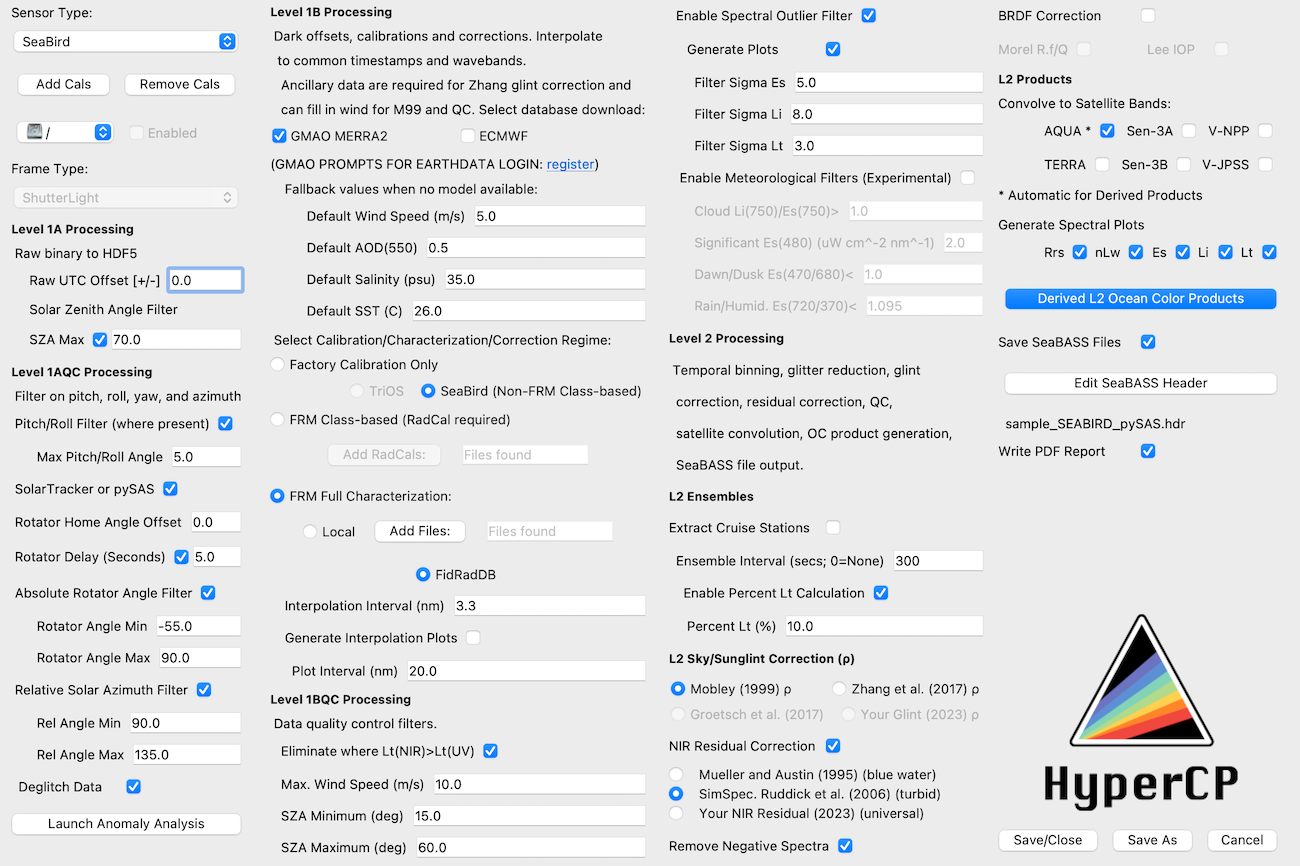
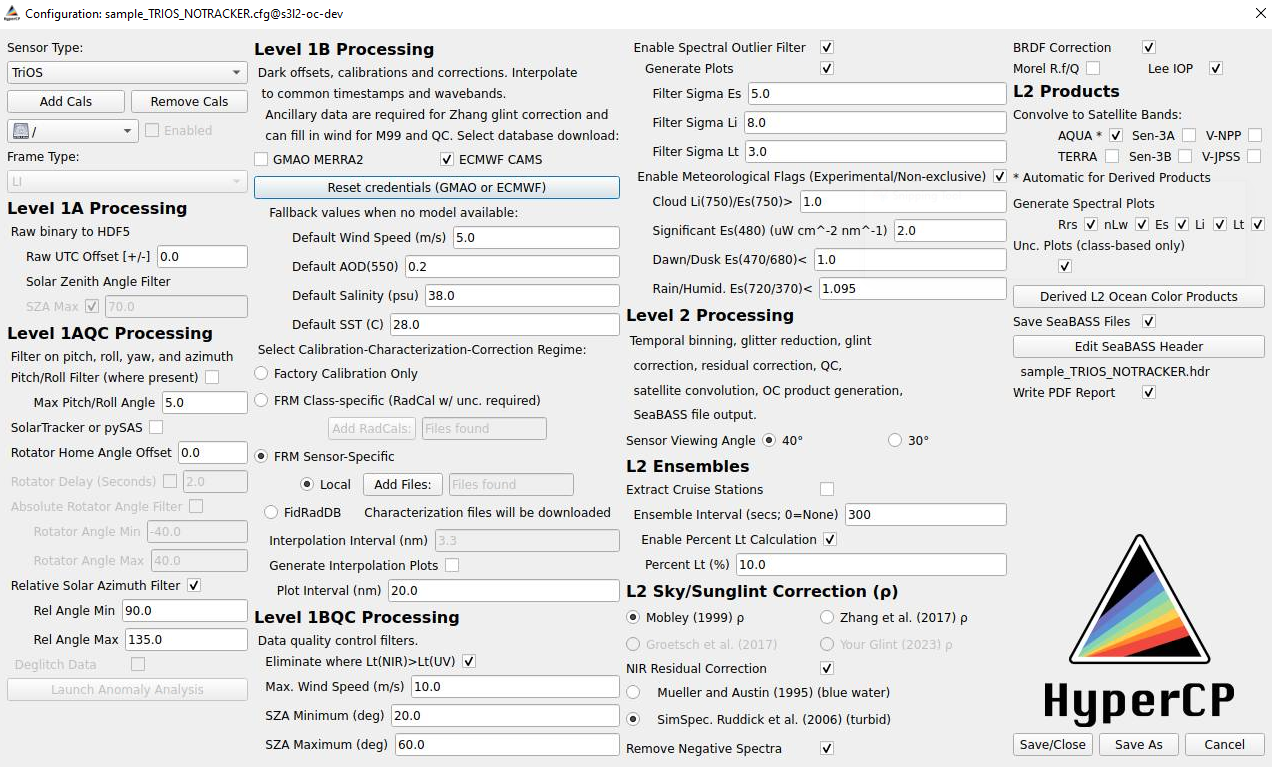
Updates in README: Ancillary info and BRDF.

Changed region(s): [[0.0, 0.0, 1.0, 1.0], [0.7665, 0.6897, 0.9811, 0.9896], [0.7052, 0.5698, 0.7358, 0.5997]]

diff --git a/README_ancillary.md b/README_ancillary.md
@@ -1,0 +1,90 @@
+# Ancillary Sources Used in HyperCP: GMAO/MERRA-2 reanalysis and ECMWF/CAMS forecast
+
+HyperCP uses ancillary information such as wind speed, aerosol optical depth, salinity, and sea surface temperature 
+during the following steps:
+
+- L1BQC processing: QC screening uses wind speed to filter the data for minimizing glint contamination
+- L2 processing: ancillary information is also required to calculate the [L2 Sky/Sunglint Correction](README_configuration/#l2-sky-sunglint-correction-rho-and-nir-correction) 
+  - Mobley (1999) rho factors require wind speed
+  - Zhang et al. 2017 rho factors require wind speed, aerosol optical depth, salinity, and sea surface temperature
+
+Since most field collections of above water radiometry are missing some or all of these ancillary parameters (though 
+they can be input in the Ancillary file, if available), an embedded function allows the user to download model data from
+two possible sources (to be selected by the user):
+
+- NASA [Global Modeling and Assimilation Office (GMAO)](https://gmao.gsfc.nasa.gov/) data are 
+ requested to the NASA EARTHDATA server. GMAO data are generated by the as hourly, 
+ global [MERRA2](https://gmao.gsfc.nasa.gov/reanalysis/MERRA-2/) HDF files at 0.5 deg (latitude) by 0.625 deg (longitude) resolution.
+ Two files will be downloaded for each hour of data processed (total ~8.3 MB for one hour of field data) and stored in
+ /Data/Anc. Global ancillary data files from GMAO will be reused, so it is not recommended to clear this directory unless 
+ updated models are being released by GMAO.
+
+        Note: MERRA2 files downloaded prior to March 15, 2022 can be deleted as the file name format has changed
+- ECMWF [CAMS global atmospheric composition forecasts](https://ads.atmosphere.copernicus.eu/datasets/cams-global-atmospheric-composition-forecasts?tab=overview)
+data are requested to ECMWF via the [ADS API](https://confluence.ecmwf.int/display/CKB/Atmosphere+Data+Store+%28ADS%29+documentation).
+One netCDF file at 0.4 degree (lat/lon) is downladed for each hour of processed data (totalling ~ 45K for one hour of
+- filed data) and stored in /Data/Anc. Ancillary data files are downloaded only at the 0.4 x 0.4 pixel
+cotaining the lat/lon reported for the field acquisition. 
+
+## Obtain the credentials
+
+When either of the two sources is selected in the L1B section of the [Configuration Window](#README_configuration), a 
+window will pop-up to insert the required credentials. Please note, that the ancillary source may be selected by default
+for a given setup, meaning that the window may pop-up before opening the configuration window for edition.
+
+### GMAO MERRA2 credentials
+
+A pop-up window like this will show up:
+
+<left><img src="Data/Img/EARTHDATA_ACCESS_popup.png" alt="banner"></left>
+
+Access to GMAO MERRA2 data requires a user login and password, which can be obtained for free
+[here](https://urs.earthdata.nasa.gov/):
+
+<left><img src="Data/Img/EARTHDATA_ACCESS.png" alt="banner"></left>
+
+The login and password will be stored under ```~/.netrc``` (or ```~/_netrc``` for Windows users).
+
+### ECMWF CAMS GACF credentials
+
+A pop-up window like this will show up:
+
+<left><img src="Data/Img/ECMWF_popup.png" alt="banner"></left>
+
+First, you must go [here](https://ads.atmosphere.copernicus.eu/) and register for free:
+
+<left><img src="Data/Img/ECMWF_register0.png" alt="banner"></left>
+
+Once registered and logged in your URL and KEY API credentials should show [here](https://ads.atmosphere.copernicus.eu/how-to-api):
+
+<left><img src="Data/Img/ECMWF_api_key.png" alt="banner"></left>
+
+Please insert URL and KEY in the pop-up window. Please note:
+
+- The API URL and KEY that you need to insert in the HyperCP pop-up window are these last ones and are different from your ECMWF credentials!
+- This process is agnostic to your operative system (disregard the options shown by ECMWF with respect to this)
+
+Finally *don't forget* to accept the Terms and Conditions scrolling all the way down in the 
+[CAMS GACF Download tab](https://ads.atmosphere.copernicus.eu/datasets/cams-global-atmospheric-composition-forecasts?tab=download):
+
+<left><img src="Data/Img/ECMWF_terms.png" alt="banner"></left>
+
+## When should I use MERRA2 and when CAMS?
+
+We *do not* offer a comparison in terms of quality and precision of the two ancillary sources. The user is left
+to perform their own independent investigation.
+
+- Global MERRA2 hourly ancillary model data are not available until the calendar month following the model date.
+This may lead to a 401 error if you are trying to acquire MERRA2 data within the month being processed. In this situation
+the user should switch to using the ECMWF model or the default fall-back values based on best estimates.
+
+- On the other hand, even if ECMWF's CAMS-GACF dataset is a forecast source, temporary downfalls of the ECMWF API may occur.
+If your field acquisitions are older than a calendar month, and you are experiencing slow downloads, please consider switching to MERRA-2.
+
+- CAMS data are not available for field acquisitions done before 2015.
+
+## What is the fallback in HyperCP in case ancillary information is missing?
+
+These ancillary data from models will be incorporated if field data are not available in the Ancillary file provided
+in the Main window. If field data and model data are both inaccessible for any reason, the system will use the Default
+values (i.e., Wind Speed, AOD, Salinity, and SST) provided in the L1BQC Configuration setup.

diff --git a/README_configuration.md b/README_configuration.md
@@ -6,7 +6,7 @@ Launch the configuration module and GUI (ConfigWindow.py) from the Main window b
  Some cruises (e.g. moving between significantly different water types) may also require multiple configurations to
  obtain the highest quality ocean color products at Level 2. Sharp gradients in environmental conditions could also
  warrant multiple configurations for the same cruise (e.g. sharp changes in air temperature may effect how data
- deglitching is parameterized, as described [below]).
+ deglitching is parameterized, as described [below](README_deglitching.md)).
 
 The configuration window looks like this:
 
@@ -190,31 +190,14 @@ when applying calibration to the dark current corrected radiometry, the offsets 
 (see ProSoftUserManual7.7 11.1.1.5 Eqns 5-6) presuming light and dark factory cals are equivalent (which they
 historically have been from Satlantic/Sea-Bird).
 
-Use of the Mobley (1999) and Zhang et al. 2017 glint corrections require wind data, and Zhang (2017) also requires
-aerosol optical depth, salinity, and sea surface temperature. L1BQC processing also uses wind speed to filter the data
-for minimizing glint contamination. Since most field collections of above water radiometry are missing some or all of
-these ancillary parameters (though they can be input in the Ancillary file, if available), an embedded function allows
-the user to download model data from the NASA EARTHDATA server. These data are generated by the NASA Global Modeling and
- Assimilation Office (GMAO) as hourly, global 'MERRA2' HDF files at 0.5 deg (latitude) by 0.625 deg (longitude)
- resolution (https://gmao.gsfc.nasa.gov/reanalysis/MERRA-2/). Two files will be downloaded for each hour of data
- processed (total ~8.3 MB for one hour of field data) and stored in /Data/Anc. Global ancillary data files from GMAO
- will be reused, so it is not recommended to clear this directory unless updated models are being released by GMAO.
- *(Note: MERRA2 files downloaded prior to March 15, 2022 can be deleted as the file name format has changed.)*
- Details for how these data are applied to above water radiometry are given below.
+### L1B: Ingestion of ancillary information for posterior processing
 
-Access to GMAO MERRA2 data requires a user login and password, which can be obtained for free
-[here](https://www.earthdata.nasa.gov/eosdis/science-system-description/eosdis-components/earthdata-login). A link to register is also provided in the Configuration window at L1BQC. When the user selects ```Download Ancillary Models```, pop-up windows will allow the user to enter a login and
-password. Once this has been done once, canceling the login pop-up dialog will force the program to use the current
-configuration (i.e. it is only necessary to re-enter the password if it has changed.)
+At Level 1B, ancillary information will be queried from either [GMAO's MERRA](https://gmao.gsfc.nasa.gov/reanalysis/merra-2/)
+or [ECMWF's CAMS GACF](https://ads.atmosphere.copernicus.eu/) reanalysis/forecast model databases and used in
+posterior processing. To know more about these sources, how they are used in HyperCP and how to obtain the required
+access credentials, read [here](README_ancillary.md).
 
-*Note: Global MERRA2 hourly ancillary model data are not available until the calendar month following the model date.* 
-This may lead to a 401 error if you are trying to acquire MERRA2 data within the month being processed. In this situation
-the user should switch to using the ECMWF model or the default fall-back values based on best estimates.
-
-These ancillary data from models will be incorporated if field data are not available in the Ancillary file provided
-in the Main window. If field data and model data are both inaccessible for any reason, the system will use the Default
-values (i.e., Wind Speed, AOD, Salinity, and SST) provided in the L1BQC Configuration setup here.
-
+### L1B: Calibration regimes
 Three calibration/characterization regimes are available:
 
 **Factory:**
@@ -424,7 +407,18 @@ Negative reflectances may be removed as follows: any spectrum with any negative 
 is removed from the record entirely. Negative reflectances outside of this range (e.g. noisy data deeper in the NIR) are
 set to 0.
 
-TODO: describe BRDF correction
+### BRDF correction
+
+A correction factor for bi-directional effects (often called "BRDF correction") must be applied to "convert" the measured 
+remote-sensing reflectance (or equivalently, the nomralised water-leaving radiance) from the given 
+illumination-observation geometry to the "normalised" geometry (Sun at zenith, water-leaving radiance acquired at nadir). 
+
+HyperCP supports two BRDF schemes:
+- [Morel et al. 2002](https://opg.optica.org/ao/abstract.cfm?uri=ao-41-30-6289) (the so-called "Chlorophyll-based" approach), and
+- [Lee et al. 2011](https://opg.optica.org/ao/fulltext.cfm?uri=ao-50-19-3155&id=219080) (the so-called "IOP-based" apprach)
+
+The Python module to calculate the BRDF scheme was developed as part of 
+[this](https://www.eumetsat.int/brdf-correction-s3-olci-water-reflectance-products) Copernicus Programme - EUMETSAT study.
 
 ### L2 Products
 
